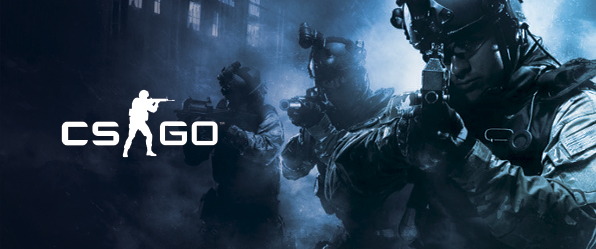
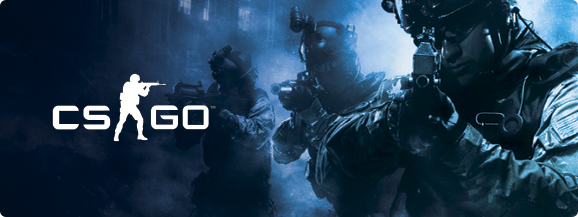
Sección Noticia: Noticia 1

diff --git a/app/build/css/app.css b/app/build/css/app.css
@@ -2212,7 +2212,7 @@ h3 {
 }
 
 .noticia__contenedor .imagen__noticia {
-  background-image: url(../../img/noticias/Noticia-1.jpg);
+  background-image: url(../../img/noticias/noticia-1/banner-noticia1.jpg);
   position: relative;
   background-size: cover;
   min-height: 50rem;
@@ -2243,6 +2243,23 @@ h3 {
 
 .noticia__contenedor .contenido__noticia .noticia__copete {
   font-weight: bolder;
+}
+
+.noticia__contenedor .contenido__noticia .noticia__texto {
+  display: contents;
+}
+
+.noticia__contenedor .contenido__noticia .noticia__texto img {
+  margin: 0 auto;
+  text-align: center;
+  width: 80rem;
+  border: 3px solid #202042;
+}
+
+.noticia__contenedor .contenido__noticia .noticia__texto p {
+  color: #f7f7f7;
+  text-transform: none;
+  margin: 0 auto;
 }
 
 .body-teams {

diff --git a/app/src/scss/layout/_noticia.scss b/app/src/scss/layout/_noticia.scss
@@ -40,7 +40,7 @@
     }
     
     .imagen__noticia{
-        background-image: url(../../img/noticias/Noticia-1.jpg);
+        background-image: url(../../img/noticias/noticia-1/banner-noticia1.jpg);
         position: relative;
         background-size: cover;
         min-height: 50rem;
@@ -73,7 +73,20 @@
         }
 
         .noticia__texto{
+            display: contents;
             
+            img{
+                margin: 0 auto;
+                text-align: center;
+                width: 80rem;
+                border: 3px solid #202042;
+            }
+
+            p{
+                color: $blanco;
+                text-transform:none;
+                margin: 0 auto;
+            }
         }
     }
     

diff --git a/app/noticia.php b/app/noticia.php
@@ -34,20 +34,26 @@
         </div>
         <div class="contenido__noticia">
             <div class="noticia__titulo">
-                <h1>Bienvenido Maher</h1>
+                <h1>LVP Liga Master Flow: San Lorenzo Leviatán venció por 3 a 1 a River en la final y es el campeón argentino de League of Legends</h1>
             </div>
             <div class="noticia__autor">
                 Por Gobbero (03/05/2021)
             </div>
             <div class="noticia__copete">
-                Lorem cillum mollit nostrud est sint consequat occaecat sunt commodo ut. Dolor fugiat ex labore incididunt. Nostrud tempor eiusmod deserunt id aliquip laboris veniam commodo ullamco fugiat aute fugiat. 
-            </div>
+            San Lorenzo Leviatán logró imponerse ante las mejores escuadras de League of Legends de Argentina y se coronó campeón de la Liga Master Flow tras derrotar como una aplanadora a River Plate por 3 a 1, al mejor de cinco, en la final. Con Sunblast, King, Brucer, Luskka y Shmebu como protagonistas, los Cuervos plantearon un gran juego colectivo y ofensivo ante el Millonario para poder llevarse el trofeo a casa.            </div>
             <div class="noticia__texto">
-                Esse pariatur esse minim Lorem reprehenderit laboris minim ex. Commodo cillum labore reprehenderit dolore ex enim velit. Minim in et incididunt fugiat fugiat officia nulla aute incididunt culpa Lorem laboris. Anim magna incididunt Lorem qui pariatur excepteur ad eu aliqua adipisicing tempor reprehenderit.
-               <br><br>
-                Proident excepteur Lorem sint do nulla commodo labore aute nisi elit. Quis amet cupidatat ut Lorem dolore fugiat fugiat duis ad deserunt duis consectetur. Et et velit magna voluptate aliquip laboris anim eiusmod non eiusmod exercitation. Deserunt duis dolor enim do irure sit minim laborum quis reprehenderit. Dolor proident officia dolore commodo ut proident.
-                <br><br>
-                Eiusmod irure velit id esse. Amet culpa non esse adipisicing adipisicing labore aliqua do labore id culpa minim commodo. Ullamco magna esse ea nisi non velit. Esse tempor et id ex eu eiusmod anim aliqua laboris labore dolor. Velit laboris ipsum ea officia elit magna excepteur.
+                <p>Ahora la <b>Copa de la Liga Master Flow</b>, en esta renovada liga de 12 equipos, queda en manos de San Lorenzo en su campeonato debut, de la mano de la escuadra palermitana <b>Leviatán que revolucionó los esports</b>. San Lorenzo había conseguido el segundo puesto de la liga en la fase regular y ahora se corona como campeón debutante, con el objetivo en el ascenso a la <b>LLA en diciembre.</b></p>
+                <img src="img/noticias/noticia-1/img1-noticia1.jpeg" alt="campeon leviatan">
+                
+                <p>En los primeros minutos ambas escuadras jugaron de manera pasiva, y los intercambios se dieron en las peleas por los súbditos de la jungla. Los jugadores de <b>San Lorenzo</b> dominaron en las líneas, por lo que <b>Shookz fue muy activo</b> en los carriles con su Udyr para ayudar a sus compañeros. <b>Si bien el Azulgrana dominó</b> las peleas en equipo con <b>Lusska y Shmebu</b> como figuras, <b>River Plate</b> concretó la mayoría de los objetivos.</p>
+                
+                <p><b>Los Cuervos</b> supieron bien cuando plantear las team fights y cuando pelear por los dragones. La igualdad predominó hasta el minuto 30, donde <b>San Lorenzo</b> se distanció en oro tras cuatro asesinatos. A pesar de esto, <b>La Banda</b> logró responder con un <b>Baron Nashor</b> con el cual consiguieron una buena presión. Finalmente, El Millonario se desposicionó al empujar el carril inferior y quedó expuesto ante un conjunto <b>Azulgrana que no solo consiguió un exterminio</b>, sino que también se llevó la <b>victoria</b>..</p>
+
+                <img src="img/noticias/noticia-1/img2-noticia1.jpeg" alt="">
+
+                <p>A diferencia del encuentro anterior, ambas escuadras fueron muy ofensivas en los primeros minutos. Sin embargo, <b>San Lorenzo dominó</b> la presión en las líneas y logró llevarse el primer dragón. A pesar de esto, <b>Shookz rotó muy bien con Udyr</b> y pudo despertar a su equipo. Si bien <b>River</b> se movió de forma excelente en equipo, <b>Sunblast escaló muy fácilmente en el carril superior con Gankplank</b> ya que estuvo muy solo y destruyó la primera estructura.</p>
+
+                <p>Abanderados por el <b>Azir de Brucer</b>, <b>San Lorenzo</b> sacó muchas ventajas en las team fights y concretó un <b>Baron Nashor</b> con el cual consiguieron muchas ventajas en torres. A pesar de la amplia ventaja, <b>La Banda comenzó a dominar las peleas</b> y comenzó a igualar la partida. Como en el encuentro anterior, un exterminio por parte del <b>Azulgrana</b> le abrió las puertas al nexo rival y pusieron la serie 2 a 0.</p>
             </div>
             
         </div>

diff --git a/app/index.php b/app/index.php
@@ -183,6 +183,8 @@
             <div class="boton__equipo animate__animated animate__fadeInRight wow" data-wow-delay="300ms"><a href="team-csgo.php"><img src="img/CSGO.jpg" alt="csgo"></a></div>
             <div class="boton__equipo animate__animated animate__fadeInLeft wow" data-wow-delay="400ms"><a href="team-valorant.php"><img src="img/VAL.jpg" alt="valorant"></a></div>
             <div class="boton__equipo animate__animated animate__fadeInRight wow" data-wow-delay="500ms"><a href="#"><img src="img/R6.jpg" alt="rainbow six"></a></div>
+            <div class="boton__equipo animate__animated animate__fadeInRight wow" data-wow-delay="600ms"><a href="#"><img src="img/LOL-WILD-RIFT.jpg" alt="wildrift"></a></div>
+            <div class="boton__equipo animate__animated animate__fadeInRight wow" data-wow-delay="700ms"><a href="#"><img src="img/FREEFIRE.jpg" alt="FREEFIRE"></a></div>
         </div>
     </section>
 
